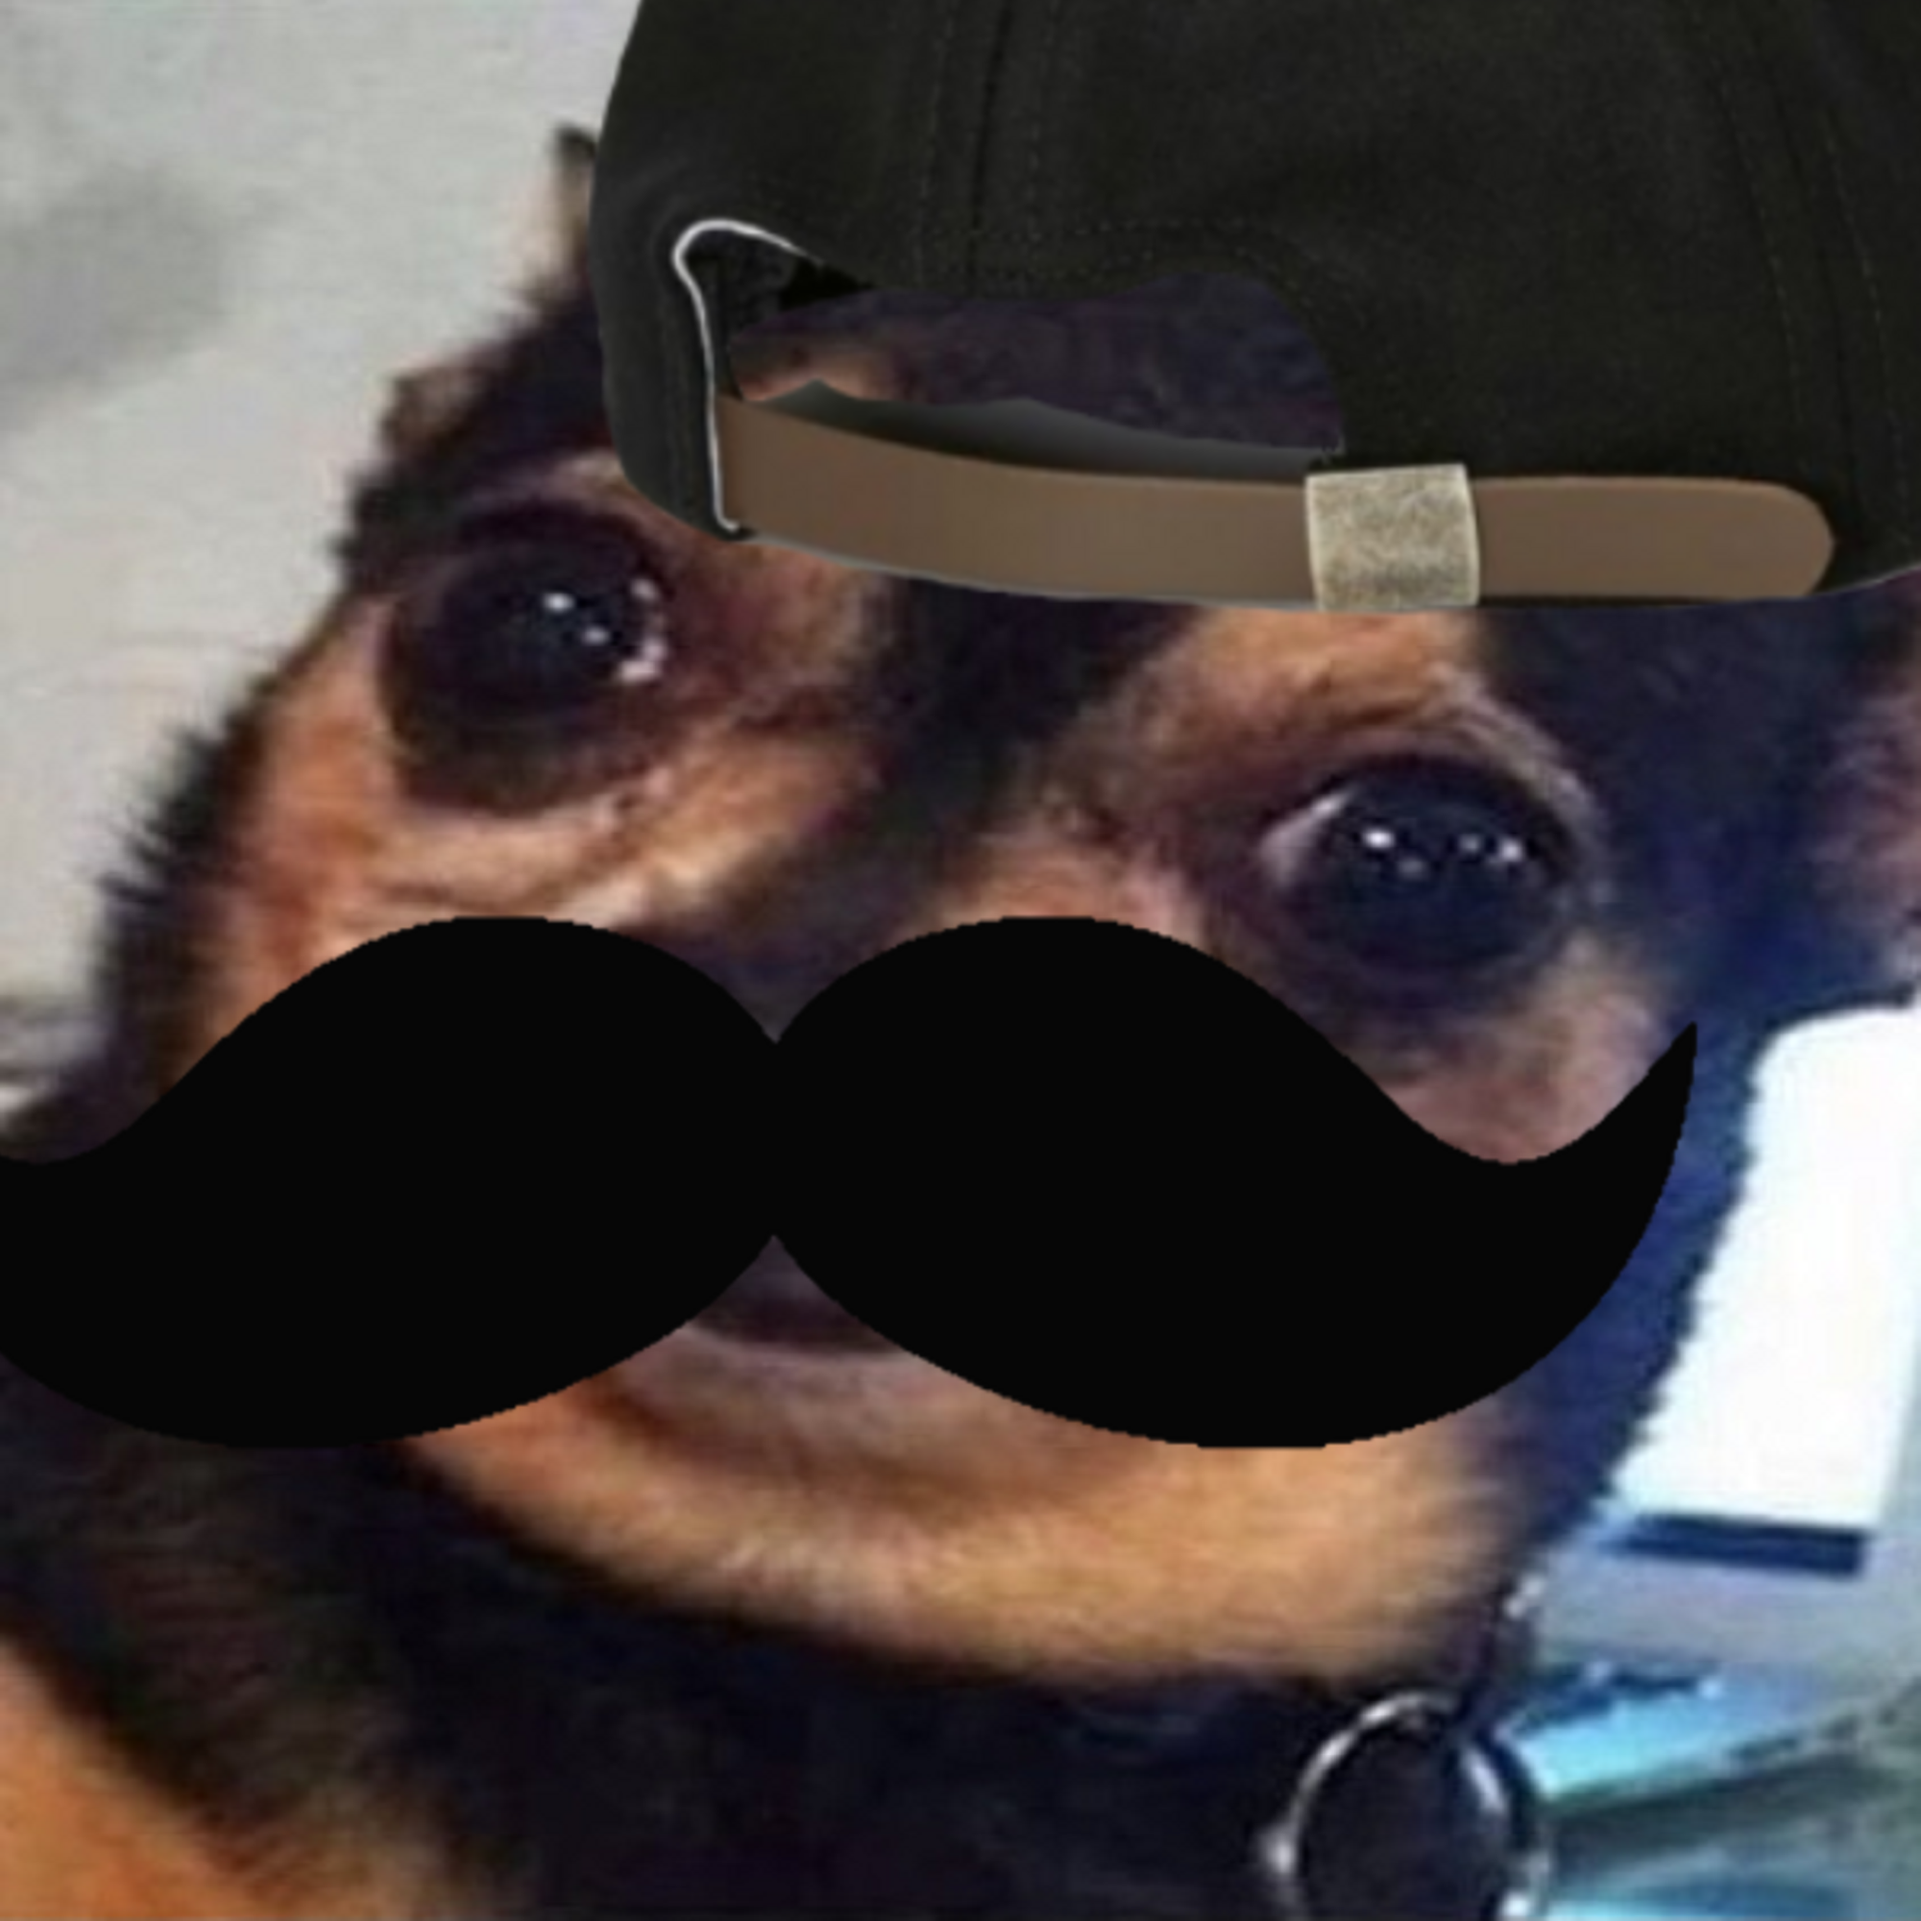
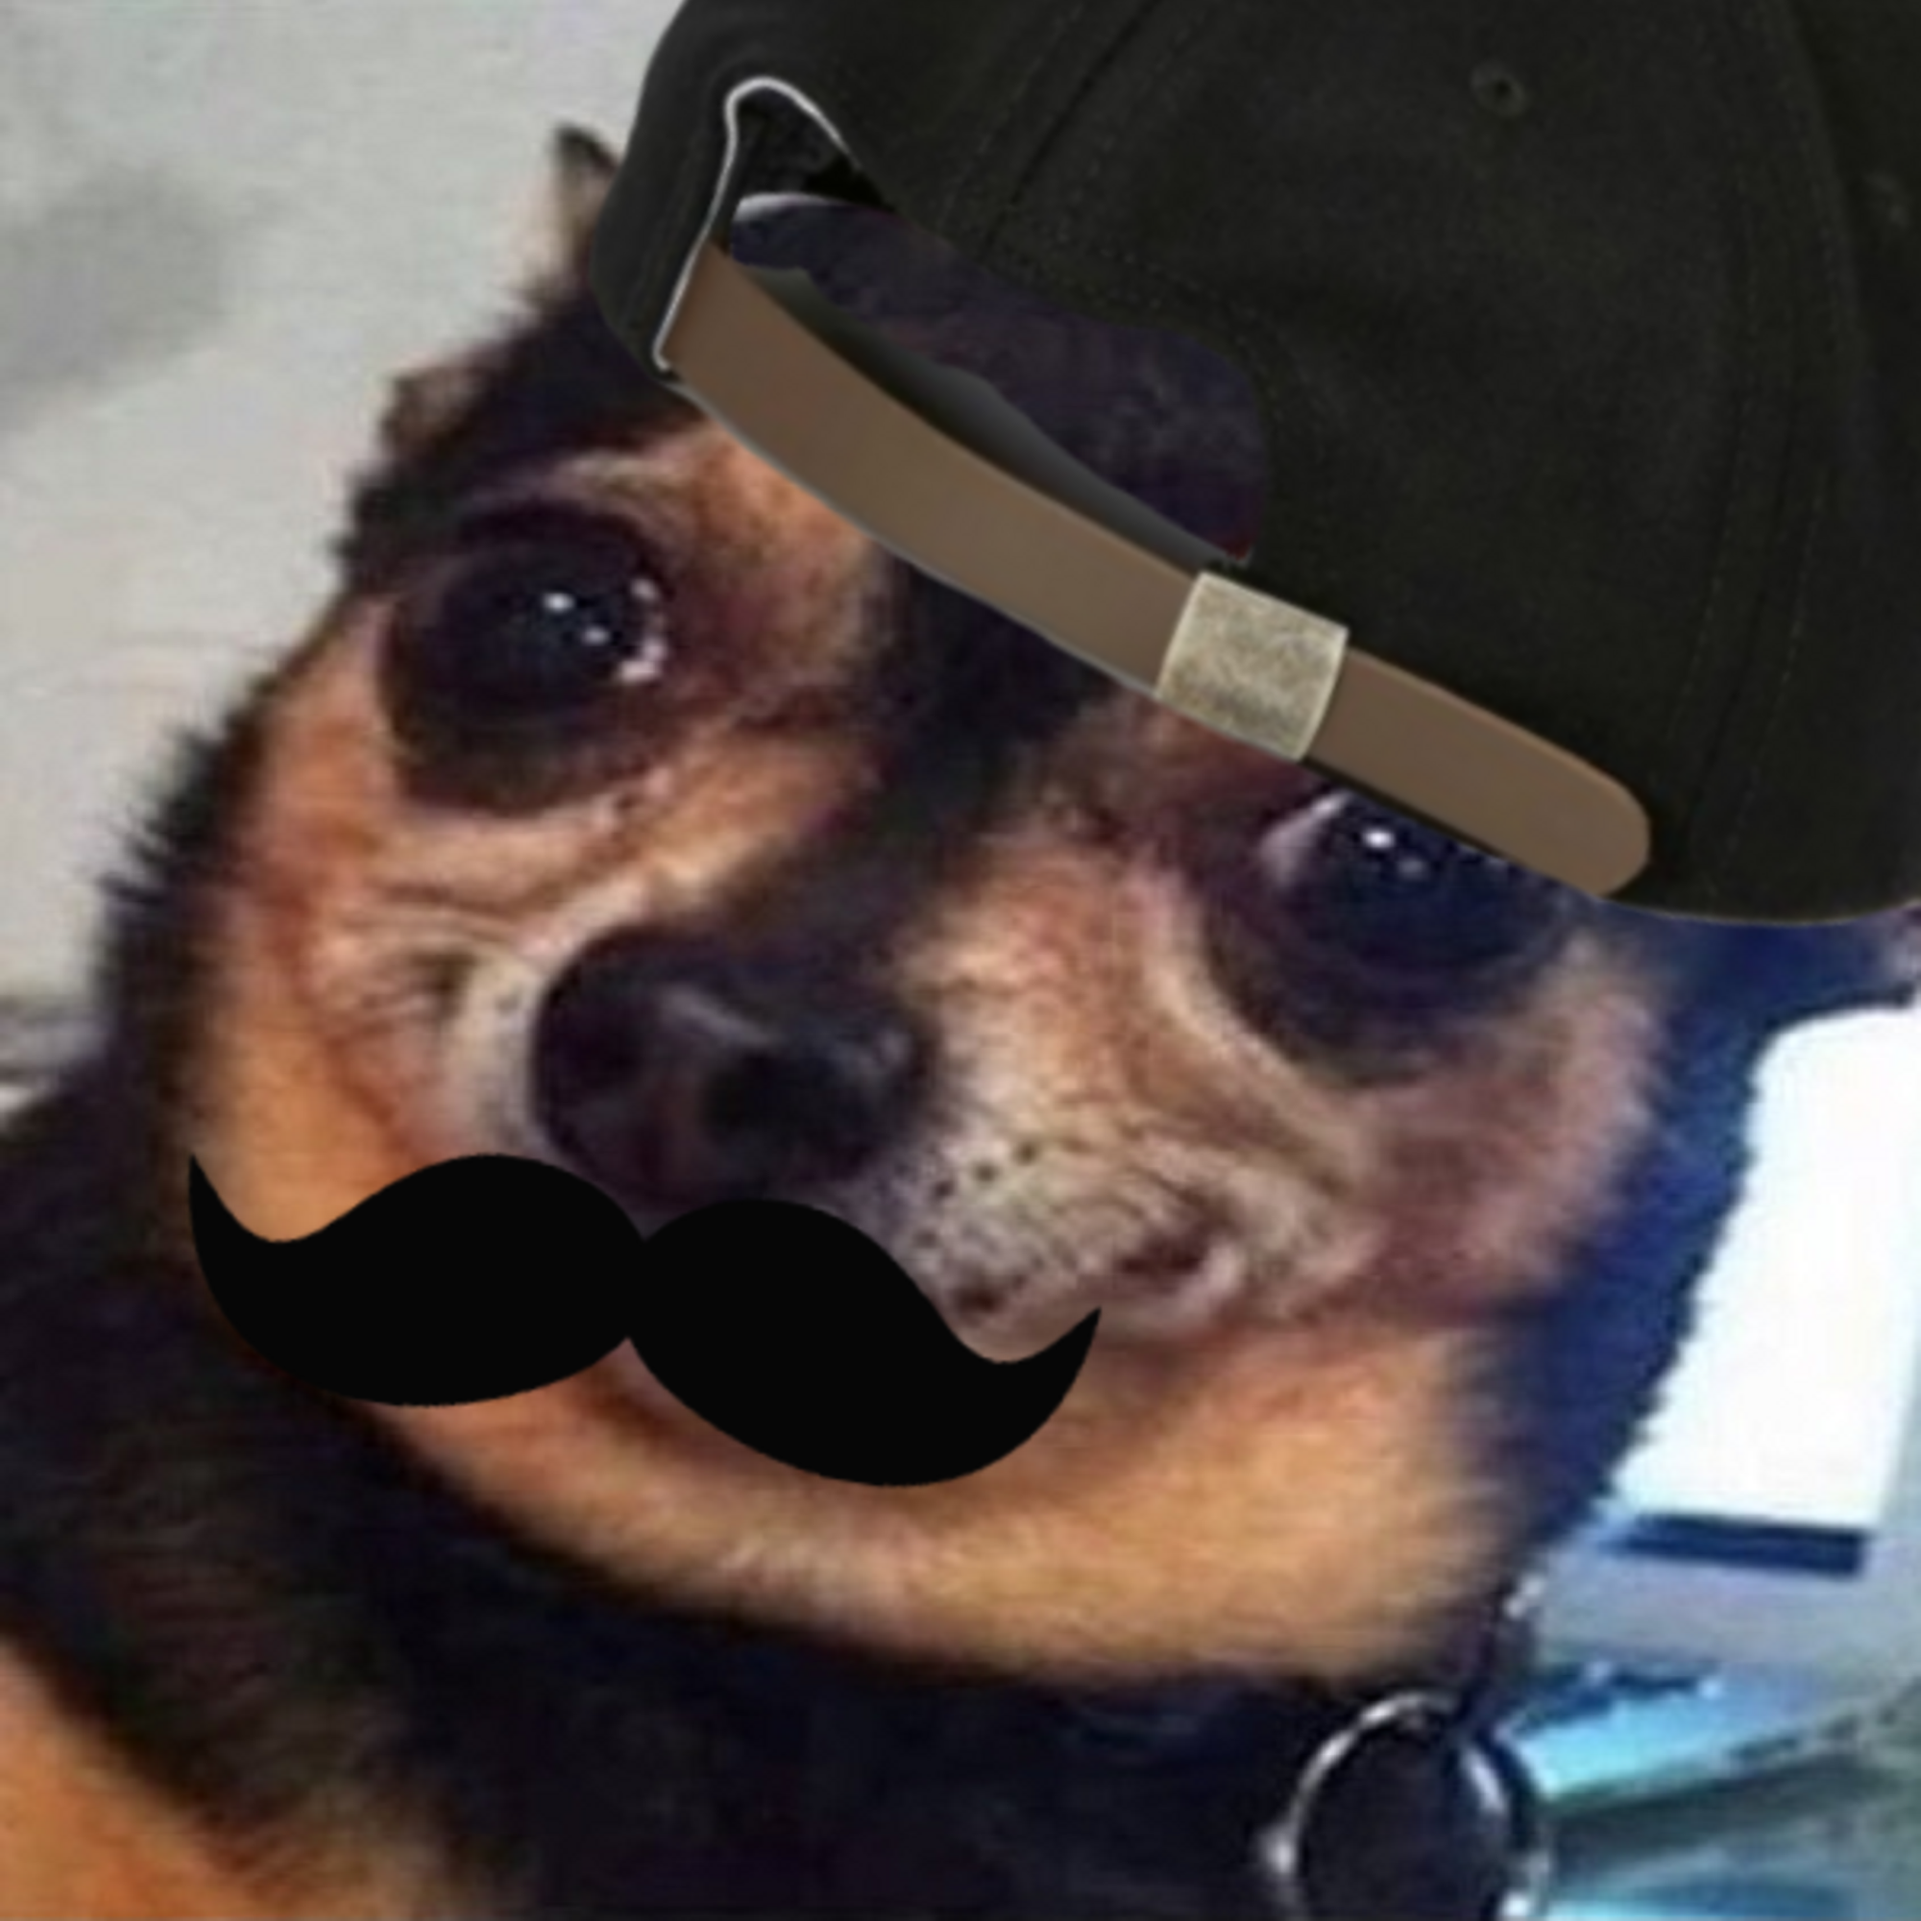
Fixed dog placement

Changed region(s): [[0.0, 0.465, 0.899, 0.775], [0.31, 0.0, 1.0, 0.496], [0.186, 0.713, 0.31, 0.744]]

diff --git a/redis_server/pet_assets/bigdog/pet.js b/redis_server/pet_assets/bigdog/pet.js
@@ -18,11 +18,11 @@ function CreateImage(options){
   let allOptions = [];
   if(options.includes('cap') ){
     const capPath = path.join(__dirname, `cap.png`);
-    allOptions.push.apply(allOptions, [capPath, '-gravity', 'Center', '-geometry', '2000x2000+500-900', '-composite'])
+    allOptions.push.apply(allOptions, [capPath, '-gravity', 'Center', '-geometry', '2000x2000+550-700', '-composite'])
   }
   if(options.includes('moustache') ){
     const stachePath = path.join(__dirname, `moustache.png`);
-    allOptions.push.apply(allOptions, [stachePath, '-gravity', 'Center', '-geometry', '2000x2000-200+200', '-composite'])
+    allOptions.push.apply(allOptions, [stachePath, '-gravity', 'Center', '-geometry', '2000x2000-350+350', '-composite'])
   }
 
   const directoryPath = path.join(__dirname, `image.png`);
